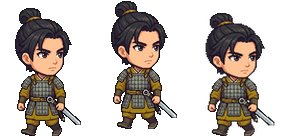
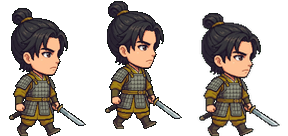
魏續 Q 版重產：臉和腳都朝右

Changed region(s): [[0.3438, 0.0, 0.625, 0.9706], [0.6875, 0.0882, 0.9688, 1.0], [0.0312, 0.0588, 0.3125, 1.0]]

diff --git a/scripts/gen_weixu_side.py b/scripts/gen_weixu_side.py
@@ -4,7 +4,7 @@ URL="https://ching-tech.ddns.net/gemini-web/v1beta/models/gemini-3.1-flash-image
 ref=base64.b64encode(open("sd/weixu_raw.png","rb").read()).decode()
 P=("Image 1 is Wei Xu, a chibi pixel-art game sprite. Redraw the SAME character in the SAME chunky pixel-art style, same 2-heads-tall proportions, "
  "same face, hair, ochre robe, iron scale armor and ring-pommel saber, but change the pose to a three-quarter side view: "
- "his head, face and body are turned about 45 degrees toward the RIGHT side of the image, he looks to the right, one foot slightly in front as if about to walk right. "
+ "his whole figure is turned about 45 degrees toward the RIGHT side of the image: face, eyes, chest, hips AND BOTH FEET all point to the right. Both boots' toes point to the RIGHT side of the image, never to the left. He is walking toward the right, the front foot (closer to the right edge) steps forward to the right. "
  "The saber is held in his right hand pointing down. Whole body visible with feet, centered, fills about 80% of the image height. "
  "Background: one flat solid pure green #00FF00 everywhere, no ground shadow, no other objects, no text.")
 def job(i):
@@ -16,7 +16,7 @@ def job(i):
             j=json.loads(urllib.request.urlopen(r,timeout=450).read())
             for p in j["candidates"][0]["content"]["parts"]:
                 d=p.get("inlineData") or p.get("inline_data")
-                if d: open(f"sd/weixu_side{i}_raw.png","wb").write(base64.b64decode(d["data"])); print(i,"OK",flush=True); return
+                if d: open(f"sd/weixu_side{i}b_raw.png","wb").write(base64.b64decode(d["data"])); print(i,"OK",flush=True); return
             print(i,"no image",str(j)[:300],flush=True)
         except Exception as e: print(i,"ERR",e,flush=True)
 ts=[threading.Thread(target=job,args=(i,)) for i in (1,2)]; [t.start() for t in ts]; [t.join() for t in ts]
